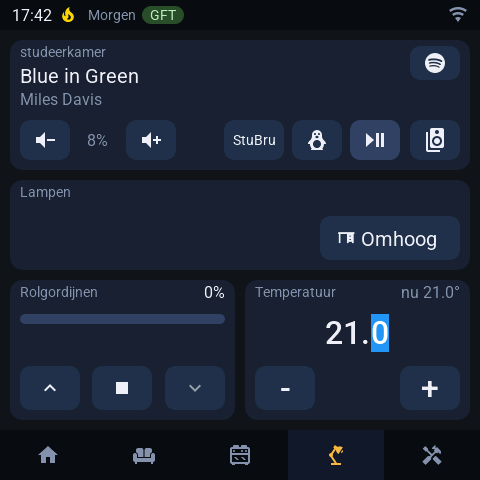
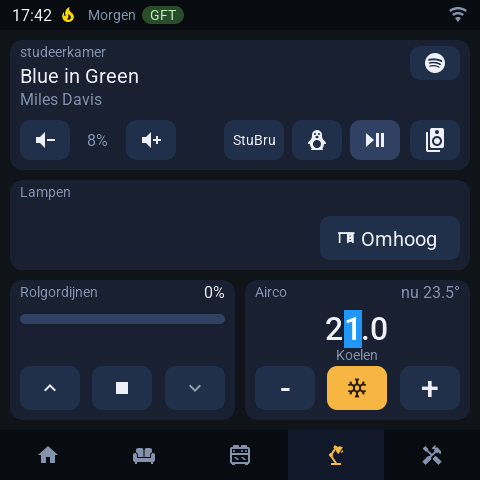
Airco-kaart voor de studeerkamer
- Nieuwe kaart (gui_airco/airco_sensor) voor climate.airconditioner1
- Middelste knop wisselt uit -> koelen -> verwarmen -> uit via
  climate.set_hvac_mode; icoon en modus volgen Home Assistant
- Uit: temperatuur gedimd en -/+ uitgeschakeld; bereik airco_min/airco_max
- Readme en afbeelding van de studeerkamer bijgewerkt

Changed region(s): [[0.6562, 0.625, 0.8125, 0.875], [0.5312, 0.5938, 0.6875, 0.625], [0.9062, 0.5938, 0.9375, 0.625]]

diff --git a/readme.md b/readme.md
@@ -27,13 +27,14 @@ Each room page has the same layout:
 - **Lights:** up to three toggle buttons, highlighted when on  
 - **Curtains:** position bar with open, stop and close buttons  
 - **Temperature:** set point with + and –; changes are sent to the thermostat once you stop tapping  
+- **Airco (studeerkamer):** the temperature card controls an air conditioner instead. The middle button cycles off → cool → heat → off (`climate.set_hvac_mode`), its icon shows the mode, and the mode is shown below the set point. The range is set with `airco_min` / `airco_max` in `settings.yaml`  
 
 Devices that are unavailable in Home Assistant are shown greyed out (or as "offline") and cannot be operated.
 
 | Woonkamer | Keuken |
 |---|---|
 | ![Woonkamer](images/woonkamer.png) | ![Keuken](images/keuken.png) |
-| **Studeerkamer** | **Kluskamer** (thermostat offline) |
+| **Studeerkamer** (airco) | **Kluskamer** (thermostat offline) |
 | ![Studeerkamer](images/studeerkamer.png) | ![Kluskamer](images/kluskamer.png) |
 
 #### Sonos Grouping  
